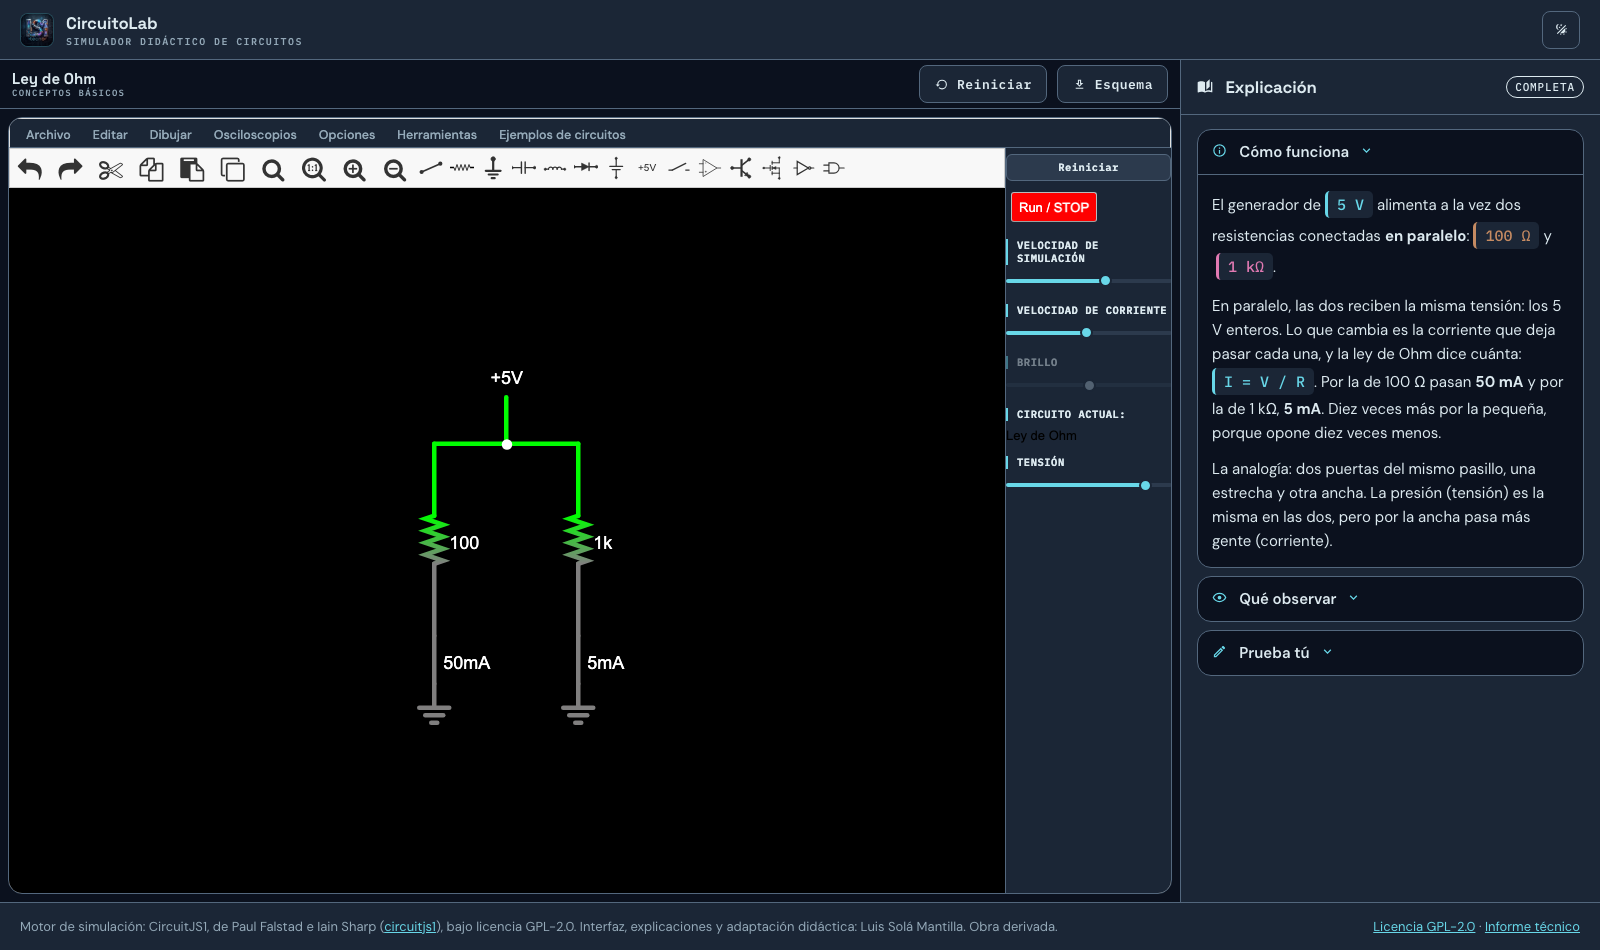
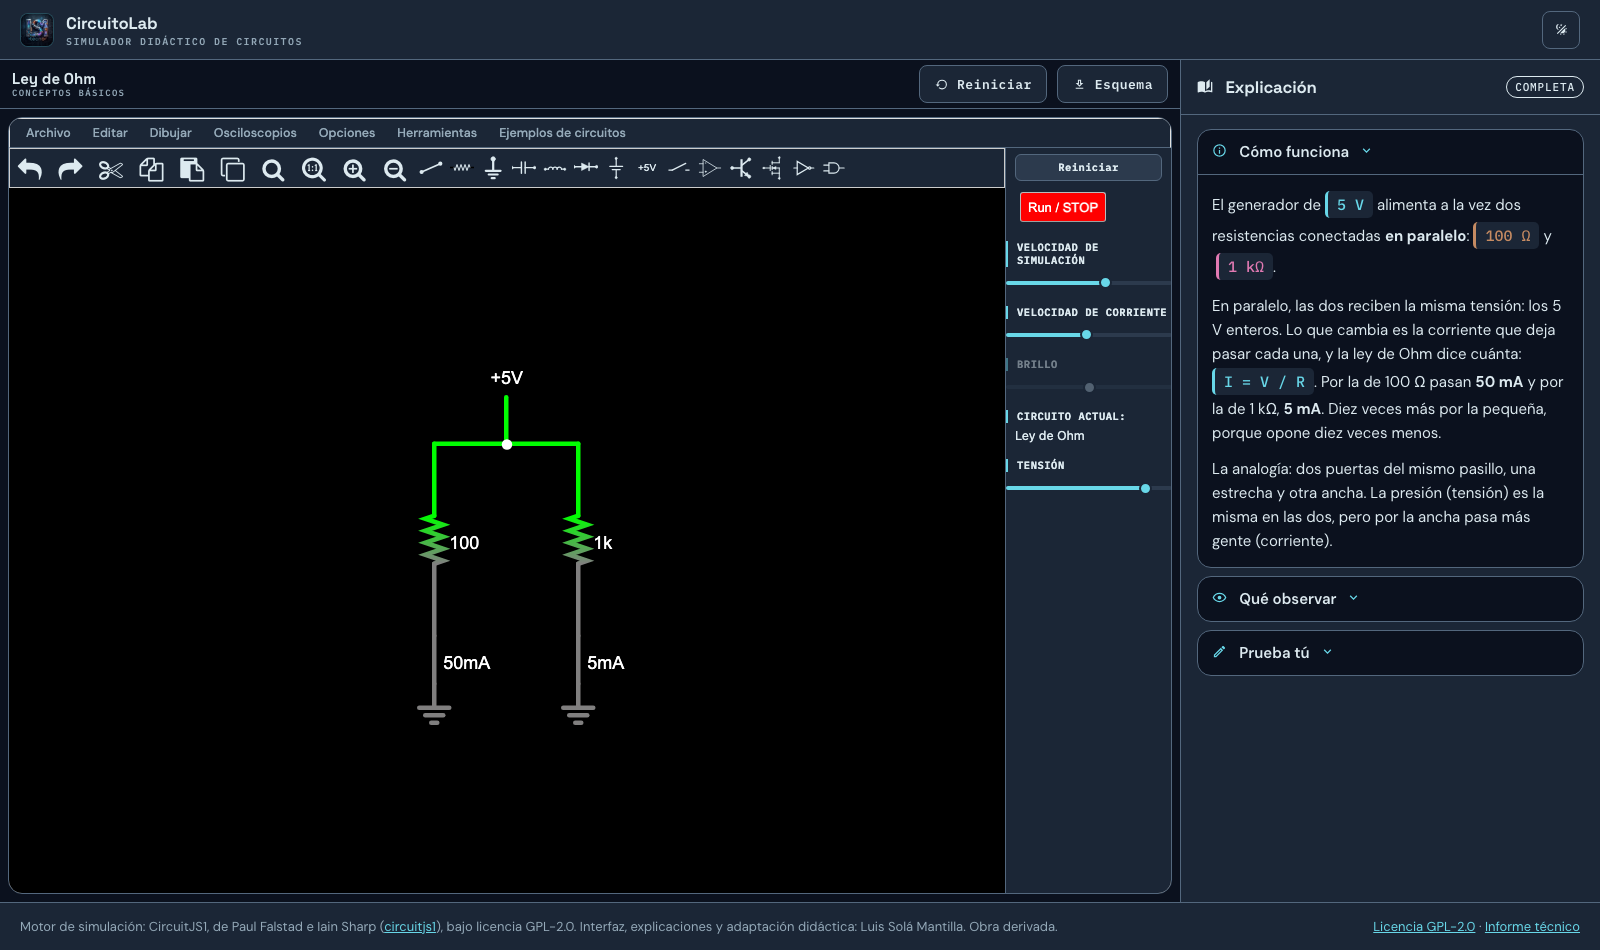
fix(ui): nombre del circuito actual legible y barra del motor sin fondo blanco
- El valor de 'Circuito actual' es un div sin clase que el motor pinta en negro:
  sobre fondo oscuro no se leia. Ahora usa el color y la tipografia del brand.
- La barra de herramientas del motor es un div fijo (~836 px) con fondo #f8f8f8.
  Se marca por color computado y se le da el fondo del brand, con max-width 100%
  y desplazamiento interno: ya no desborda ni deja un blanco en modo oscuro.

Changed region(s): [[0.0, 0.1221, 0.7188, 0.3968], [0.625, 0.4274, 0.7188, 0.5189]]

diff --git a/assets/js/app.js b/assets/js/app.js
@@ -433,6 +433,26 @@ function estilizarMotor() {
       border-left: 2px solid rgb(${acento}) !important;
     }
     #painel .topSpace.disabled { opacity: .45; }
+    /* El valor del circuito actual es un div sin clase que el motor pinta en
+       NEGRO: sobre fondo oscuro no se lee. */
+    #painel > div:not(.topSpace):not(.cl-cursor-caja) {
+      color: rgb(${fg}) !important;
+      font: 400 12.5px/1.35 'DM Sans', system-ui, sans-serif !important;
+      padding: 0 9px 2px !important;
+    }
+    /* Barra de herramientas del motor: div fijo de ~836 px con fondo blanco
+       (#f8f8f8). Se pinta con el brand y, si no cabe, se desplaza en vez de
+       desbordar por la derecha. */
+    .cl-barra-motor {
+      background: rgb(${fondo}) !important;
+      max-width: 100% !important;
+      overflow-x: auto !important;
+      overflow-y: hidden !important;
+      scrollbar-width: thin !important;
+    }
+    .cl-barra-motor * { color: rgb(${fg}) !important; }
+    .cl-barra-motor::-webkit-scrollbar { height: 6px; }
+    .cl-barra-motor::-webkit-scrollbar-thumb { background: rgb(${borde}); border-radius: 3px; }
     #painel label.topSpace { display: block; }
     /* el motor mete un iframe.html vacio de 325 px como hueco de branding:
        aqui no hay branding que poner, asi que se oculta */
@@ -440,6 +460,19 @@ function estilizarMotor() {
     /* el lienzo sigue negro: es el color propio del simulador */
     body { margin: 0 !important; }
   `;
+
+  // marca las barras claras del motor (fondo #f8f8f8 / blanco) para darles el
+  // tratamiento del brand; se hace por color computado porque no tienen clase
+  try {
+    const vista = doc.defaultView;
+    for (const el of doc.querySelectorAll('div')) {
+      if (el.classList.contains('cl-barra-motor')) continue;
+      const fondo = vista.getComputedStyle(el).backgroundColor;
+      if (fondo === 'rgb(248, 248, 248)' || fondo === 'rgb(255, 255, 255)') {
+        el.classList.add('cl-barra-motor');
+      }
+    }
+  } catch (e) { /* si el DOM del motor no está listo, se reintenta al reconectar */ }
 }
 
 /* ------------------------------------------------- cursores del motor */
